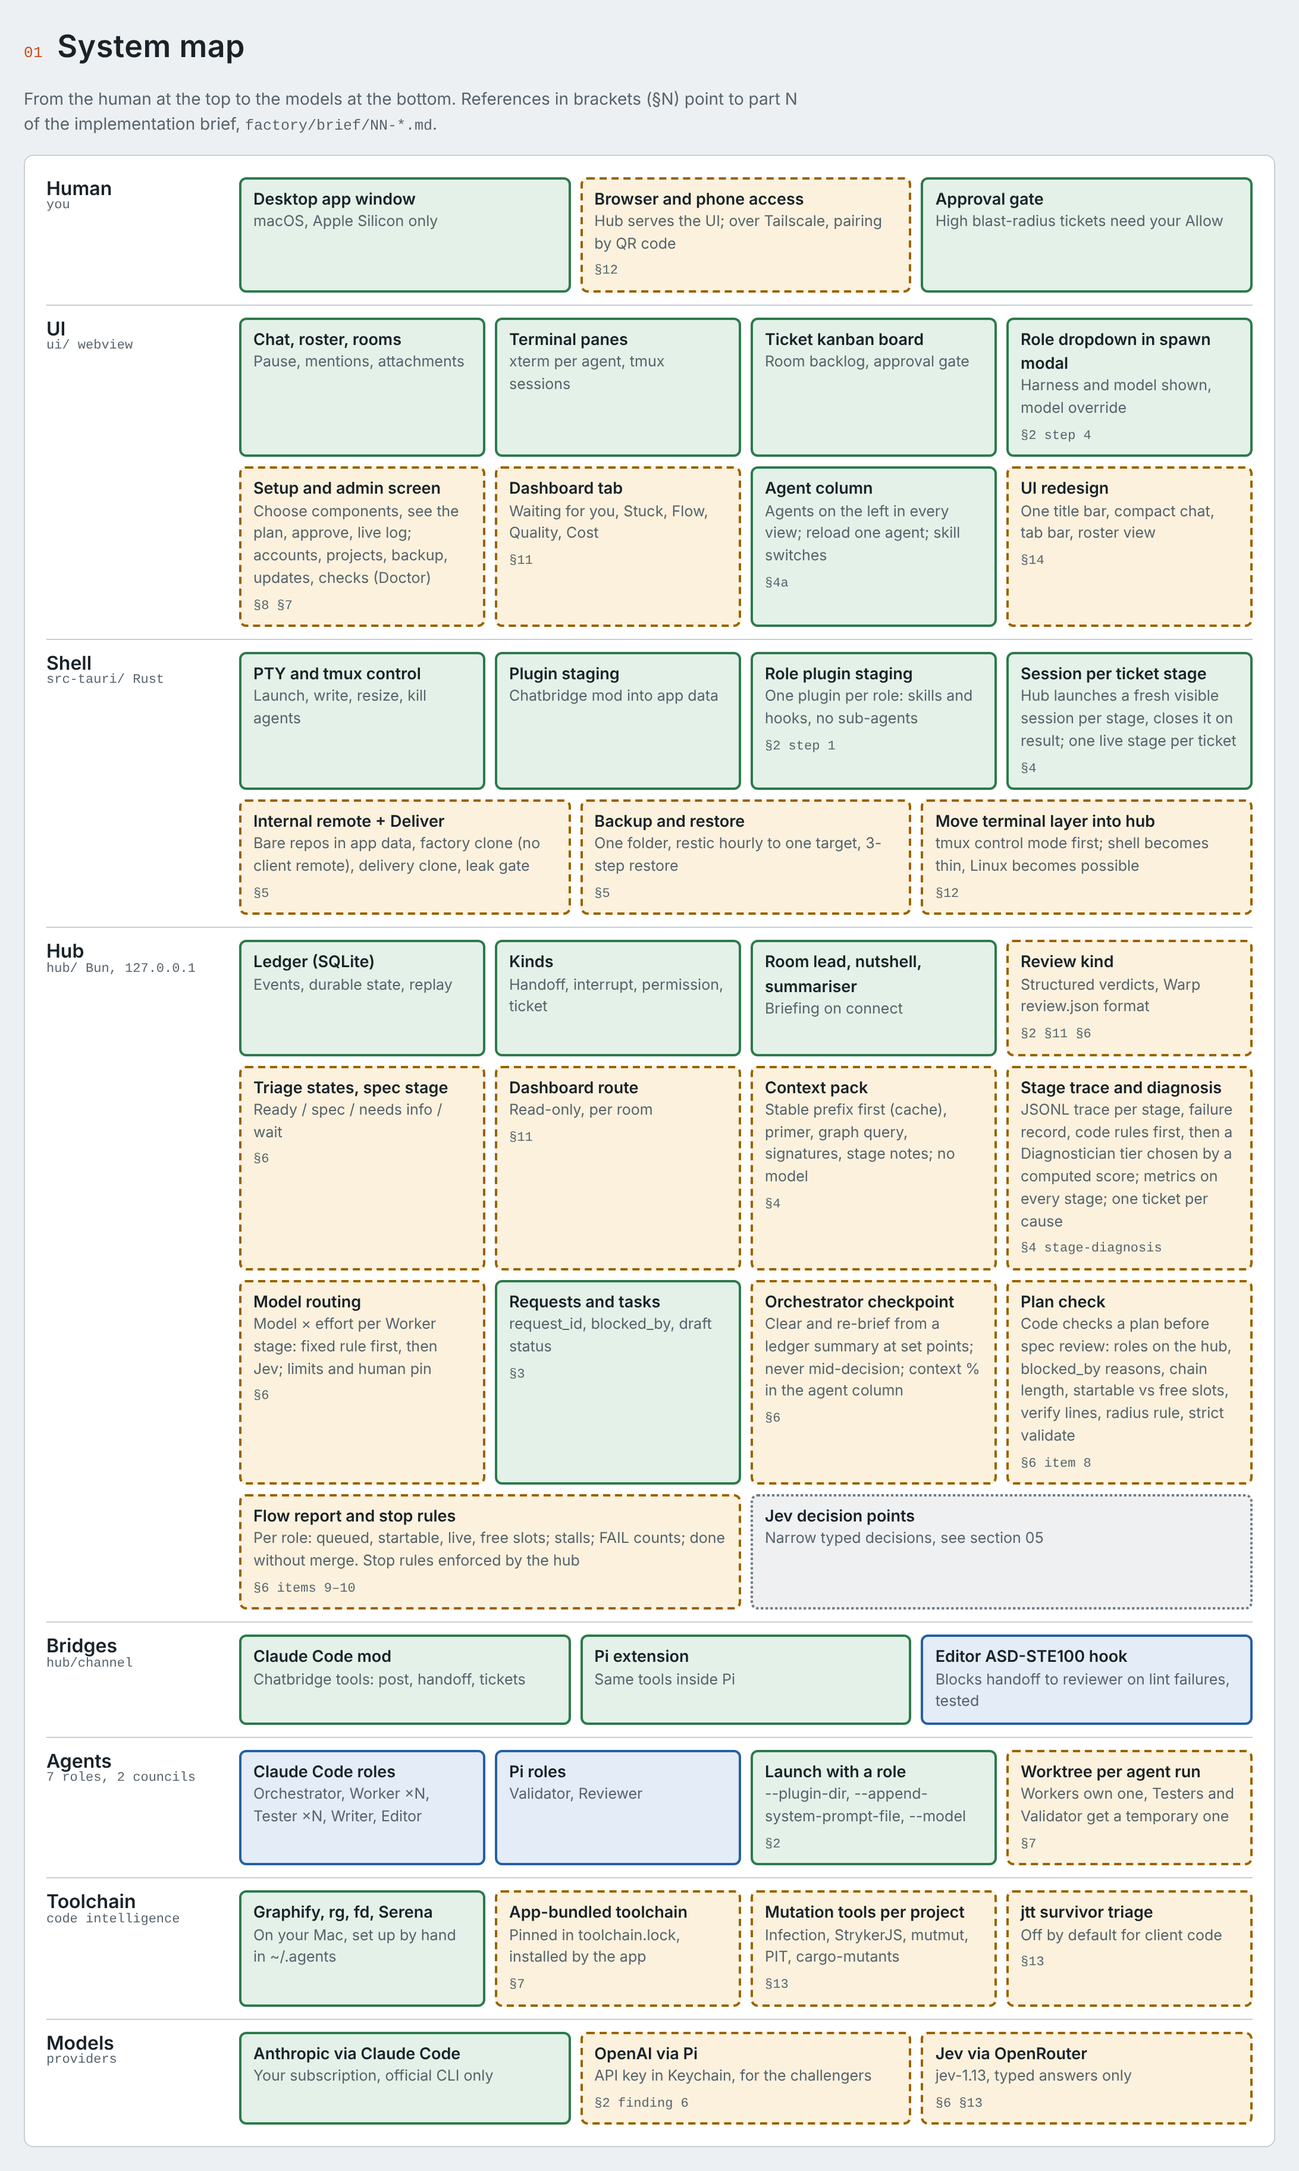
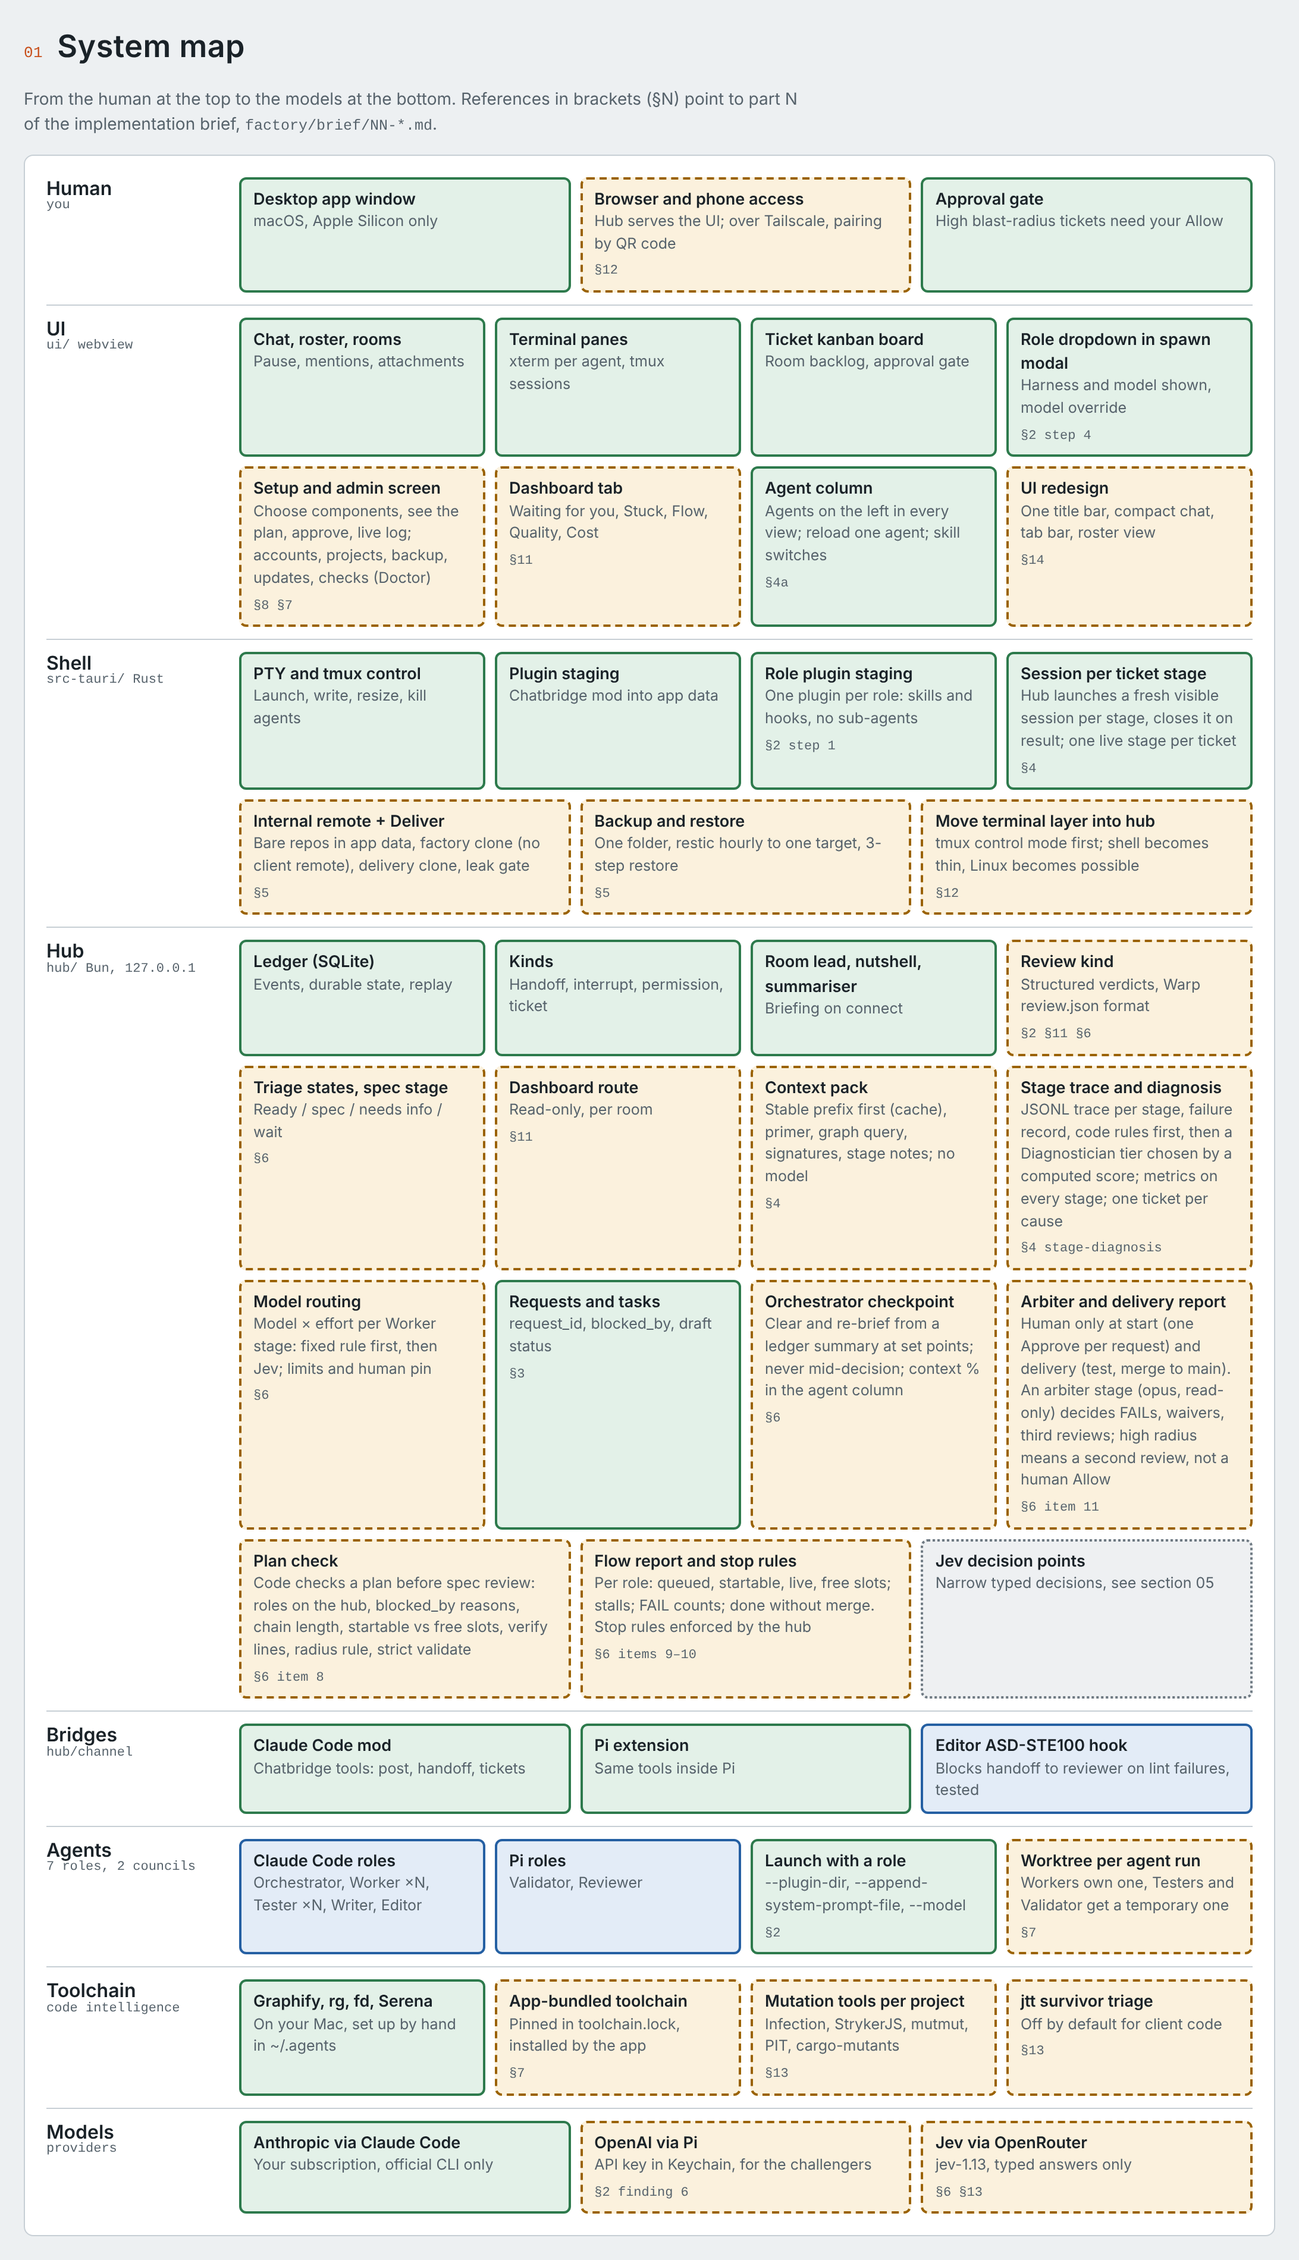
docs: human touchpoints only at start and delivery (Part 6 item 11, arbiter, interim rule); map

diff --git a/docs/factory-map.html b/docs/factory-map.html
@@ -203,6 +203,7 @@ footer{color:var(--muted);font-size:12.5px;display:grid;gap:4px}
         <div class="n planned"><span class="t">Model routing</span><span class="d">Model × effort per Worker stage: fixed rule first, then Jev; limits and human pin</span><span class="ref">§6</span></div>
         <div class="n built"><span class="t">Requests and tasks</span><span class="d">request_id, blocked_by, draft status</span><span class="ref">§3</span></div>
         <div class="n planned"><span class="t">Orchestrator checkpoint</span><span class="d">Clear and re-brief from a ledger summary at set points; never mid-decision; context % in the agent column</span><span class="ref">§6</span></div>
+        <div class="n planned"><span class="t">Arbiter and delivery report</span><span class="d">Human only at start (one Approve per request) and delivery (test, merge to main). An arbiter stage (opus, read-only) decides FAILs, waivers, third reviews; high radius means a second review, not a human Allow</span><span class="ref">§6 item 11</span></div>
         <div class="n planned"><span class="t">Plan check</span><span class="d">Code checks a plan before spec review: roles on the hub, blocked_by reasons, chain length, startable vs free slots, verify lines, radius rule, strict validate</span><span class="ref">§6 item 8</span></div>
         <div class="n planned"><span class="t">Flow report and stop rules</span><span class="d">Per role: queued, startable, live, free slots; stalls; FAIL counts; done without merge. Stop rules enforced by the hub</span><span class="ref">§6 items 9–10</span></div>
         <div class="n idea"><span class="t">Jev decision points</span><span class="d">Narrow typed decisions, see section 05</span></div>
@@ -468,7 +469,7 @@ footer{color:var(--muted);font-size:12.5px;display:grid;gap:4px}
     <div class="n built"><span class="step">3</span><span class="t">Ticket grouping</span><span class="d">done: request_id, blocked_by, draft status</span><span class="ref">§3</span></div>
     <div class="n planned"><span class="step">4</span><span class="t">Session per ticket stage</span><span class="d">stage sessions and spec review done (archived 27 Oct); open: context pack (in work), stage diagnosis (proposed)</span><span class="ref">§4</span></div>
     <div class="n built"><span class="step">4a</span><span class="t">Agent column</span><span class="d">done: built to test Part 4; reload one agent, skill switches</span><span class="ref">§4a</span></div>
-    <div class="n planned"><span class="step">6</span><span class="t">Checkpoint, guards, routing, Warp patterns</span><span class="d">next: Orchestrator checkpoint; then plan check, flow report, stop rules in the hub; then model × effort per Worker; triage, spec stage, review.json</span><span class="ref">§6</span></div>
+    <div class="n planned"><span class="step">6</span><span class="t">Touchpoints, checkpoint, guards, routing</span><span class="d">next: human only at start and delivery (arbiter, delivery report) with the Orchestrator checkpoint; then plan check, flow report, stop rules; then model × effort; triage, spec stage, review.json</span><span class="ref">§6</span></div>
     <div class="n planned"><span class="step">12</span><span class="t">Hub-first, browser, Linux</span><span class="d">after Part 6: hub serves the UI, terminal layer into the hub, browser access and pairing, Linux</span><span class="ref">§12</span></div>
     <div class="n planned"><span class="step">5</span><span class="t">Delivery and backup</span><span class="d">after Part 12: internal remote, Deliver step, leak gate, hourly backup</span><span class="ref">§5</span></div>
     <div class="n planned"><span class="step">7</span><span class="t">Toolchain</span><span class="d">bundled tools, worktrees, Serena limits</span><span class="ref">§7</span></div>

diff --git a/factory/brief/06-warp-patterns.md b/factory/brief/06-warp-patterns.md
@@ -1,6 +1,6 @@
-# Part 6: patterns from the Warp cloud factory, model routing, the Orchestrator checkpoint and process guards
+# Part 6: patterns from the Warp cloud factory, model routing, the Orchestrator checkpoint, process guards and human touchpoints
 
-Status: planned. Build order inside this part (decision 2026-10-27): item 7 (Orchestrator checkpoint), then items 8 to 10 (process guards), then item 6 (model routing), then items 1 to 5. Part 12 comes directly after this part.
+Status: planned. Build order inside this part (decision 2026-10-27): item 11 (human touchpoints) and item 7 (Orchestrator checkpoint) first, then items 8 to 10 (process guards), then item 6 (model routing), then items 1 to 5. Part 12 comes directly after this part.
 
 ## Findings from real use (2026-10-27)
 
@@ -16,6 +16,7 @@ The response, in this part:
 - Item 8 checks each plan with code before the spec review.
 - Item 9 gives a flow report from the hub.
 - Item 10 moves the stop rules into the hub.
+- Item 11 limits the human to two points: the start of a request and the delivery. The factory decides everything between them and records each decision.
 
 Rule for all items: a fact about the work ("done", "merged", "archived", "blocked") comes from the hub or from git. A report that states such a fact without a commit hash or a hub record does not count.
 
@@ -300,21 +301,91 @@ Status: decision 2026-10-27 (human). Several of these are open tickets already. 
 
 Rule for new role-file rules: when a rule protects the flow (a limit, a stop, an order), add the check in code or add a row to this table with the reason why code cannot check it.
 
+### 11. Human touchpoints: start and delivery only
+
+Status: decision 2026-10-27 (human). Build it first in this part, with item 7. The interim rule below applies now.
+
+#### Goal
+
+The human takes part at two points only:
+1. **Start.** The human defines the features of a request and approves its plan once.
+2. **Delivery.** The human tests the result on staging and merges staging into main, or opens a fix request.
+
+Between these two points the factory decides alone. It records each decision, and the delivery report shows them. On 2026-10-27 the human had to act many times per ticket (queue, Approve, Allow, radius, third reviews, decisions after FAILs). That made the factory slower than doing the work by hand.
+
+#### Today's human actions and their replacement
+
+| Today | Replacement |
+|---|---|
+| Approve a request with a high-radius ticket, and again after each edit of a ticket | One Approve for each request, at the start. An edit inside the approved scope needs no new Approve. A scope change (a new or removed ticket, a removed criterion) needs one. |
+| Allow on each high-radius ticket before the merge | High radius means stricter checks, not a human gate: the Tester runs the full suite, and a second review comes from a different model (OpenAI on Pi when available, else opus). The merge message names both PASSes. The delivery report lists every high-radius change. Main stays protected: only the human merges staging into main. |
+| The human sets or changes the radius | Code sets the radius from the radius rule (item 8). The Orchestrator can raise it. A radius below the rule needs the arbiter. The start Approve shows the radius of each ticket. |
+| Decisions after two FAILs, waivers, contradictory criteria, a third review | An arbiter stage decides (see below). |
+| The install time | The Orchestrator installs in a clean window, with the backup and the full checks (already the rule). |
+
+#### The arbiter
+
+- A stage with role `arbiter`: Claude, opus with effort high, read-only, a new session each time.
+- First message: the ticket, its criteria and notes, all findings, the FAIL history, earlier rulings, `factory/orchestrator/unblocking.md` and the decision tree of `factory/validator/validator.md`.
+- Result (schema-checked): one option from a fixed list (rework with a named scope, waiver with its text, third review with its scope, follow-up ticket, cancel, human), the reasons, and the rule it applied.
+- Code applies the result: it writes the ruling as a ticket note, sends the rework, starts the review or makes the draft ticket.
+- Limits: one arbiter for each ticket and FAIL count. The arbiter cannot change the scope or the features. It cannot rule on implementation details without a code reference.
+
+#### When the human is asked
+
+Only when:
+- a decision changes a feature or the scope that the human defined;
+- an action cannot be undone (data loss, a delete outside the factory, an external effect, secrets);
+- the arbiter returns `human`;
+- a security finding has no fix in scope.
+
+Each such question uses the escalation format of `unblocking.md` and comes as one "Needs you" line.
+
+#### Delivery report
+
+When all tickets of a request are done, code builds the report from the ledger and git:
+- the tickets and their merge commits;
+- the arbiter rulings, the waivers and the known limits;
+- the high-radius changes with their two PASSes;
+- the test counts on staging;
+- how to test the feature by hand.
+
+The human tests and merges staging into main, or opens a fix request. Each ruling that the human overrules is recorded, and it is a measure of the arbiter.
+
+#### Interim rule (effective 2026-10-27, until this item is built)
+
+- The Orchestrator decides the options it would bring to the human, by its own recommendation, when the decision does not change the scope and can be undone. It writes each as a ticket note "Ruling (Orchestrator, interim)" with the reason, and lists them in one summary at the end of the day.
+- Rulings on implementation details stay forbidden (`unblocking.md`, step 2).
+- The hub still asks the human for the Approve and the Allow of high-radius tickets and for a third spec review. Until item 11 is built, apply the radius rule strictly, so that few tickets are high.
+
+#### Tests
+
+1. A request approved at the start: an edit inside its scope queues without a new Approve. A new ticket in the request needs one.
+2. A high-radius ticket with two PASSes merges without a human Allow. The merge message names both PASSes.
+3. After a second FAIL, an arbiter stage starts. Its result is a ticket note, and code applies it. The human gets no "Needs you" line.
+4. An arbiter result that changes the scope is refused, and the decision goes to the human.
+5. The delivery report lists every ruling, waiver and high-radius change of the request.
+
+#### Open questions
+
+1. The second model: OpenAI on Pi is not set up yet (Part 2, finding 6). Until then, the second review is opus on Claude, in a new session.
+2. Does an arbiter replace the human well enough? Measure it with the overrules in the delivery reports.
+
 ## Ideas for later
 
-### 11. Learning from the human's corrections
+### 12. Learning from the human's corrections
 
 Skill: `.agents/skills/improve-review-pr/SKILL.md`. A daily job reads how humans reacted to automated review comments. It opens a change to the review skill when it finds knowledge that the reviewer must keep.
 
 For the factory: when the human overrules a Validator or Reviewer verdict, record it with the reason. A scheduled job proposes changes to the role file or the skills. The human approves each change.
 
-### 12. Video evidence of UI behaviour
+### 13. Video evidence of UI behaviour
 
 Skill: `.agents/skills/verify-behavior/SKILL.md`. It checks each user story in a separate run, and records video and screenshots. It uses the Oz platform.
 
 For the factory: the Tester records Playwright video for UI tickets and attaches it to the ticket. One check for each user story in the spec, in parallel. This is useful for Drupal UI changes and for accessibility checks.
 
-### 13. Tests for skills
+### 14. Tests for skills
 
 File: `.agents/skills/triage/evals/evals.json`. Each entry has a prompt and the expected behaviour. Skill descriptions decide when skills load (Part 2, finding 4), so test the important skills with prompts like these. The `skill-creator` skill can run such tests.
 

diff --git a/factory/brief/00-index.md b/factory/brief/00-index.md
@@ -18,7 +18,7 @@ The brief has sixteen parts. The numbers follow the build order (decision 2026-1
 4. [04-sessions.md](04-sessions.md): Visible sessions: no sub-agents, and one new session for each ticket stage. Stage sessions and spec review are done (archived 2026-10-27). Open: the context pack (in work) and stage diagnosis (proposed, `openspec/changes/stage-diagnosis`).
 4a. [04a-agent-column.md](04a-agent-column.md): Agent column (done). The agents move to a left column in every view, with Reload for one agent and a switch for each skill. The human asked for it on 2026-10-24, so that Part 4 can be tested. Design note for the skill switches: [04a-c6-design.md](04a-c6-design.md).
 5. [05-delivery-backup.md](05-delivery-backup.md): Internal remote, clean delivery to the client, backups and recovery. You can set up the hourly backup at once.
-6. [06-warp-patterns.md](06-warp-patterns.md): Patterns from the Warp cloud factory: triage states, a spec stage, the `review.json` format, the trust boundary, follow-up reviews. Also model routing for Workers (item 6), the Orchestrator checkpoint (item 7, build it first), and process guards from real use on 2026-10-27: a plan check before spec review (item 8), a flow report (item 9) and the stop rules in the hub (item 10). Order inside the part: 7, 8, 9, 10, 6, then 1 to 5. Build Part 6 before Part 5 (decision 2026-10-26).
+6. [06-warp-patterns.md](06-warp-patterns.md): Patterns from the Warp cloud factory: triage states, a spec stage, the `review.json` format, the trust boundary, follow-up reviews. Also model routing for Workers (item 6), the Orchestrator checkpoint (item 7, build it first), and process guards from real use on 2026-10-27: a plan check before spec review (item 8), a flow report (item 9) and the stop rules in the hub (item 10). Item 11 (decision 2026-10-27) limits the human to the start of a request and the delivery; an arbiter stage decides between them. Order inside the part: 11 and 7, then 8, 9, 10, 6, then 1 to 5. Build Part 6 before Part 5 (decision 2026-10-26).
 7. [07-toolchain.md](07-toolchain.md): Toolchain: the app installs and gives each agent Graphify, ripgrep, fd and Serena.
 8. [08-setup-admin.md](08-setup-admin.md): Setup and admin screen: install, sign in, add projects, check and update.
 9. [09-a11y-council.md](09-a11y-council.md): Accessibility and usability council. It builds the council form. It works on live pages, code, documents and Figma designs.

diff --git a/factory/orchestrator/orchestrator.md b/factory/orchestrator/orchestrator.md
@@ -42,7 +42,7 @@ The validator reviews your plan for each request before any work starts (spec re
      - `claimed`, `in_progress` or `in_review`: you cannot change its `blocked_by`. Ask the human to change it.
      - `done` or `cancelled`: do not change it.
 9. Triage every unassigned ticket in your Briefing.
-10. Watch for stalls: a ticket without movement, a pending handoff, two FAIL or CHANGES loops on one ticket, or a validator-worker dispute. Decide, or escalate to the human with the options. When work stops, follow `factory/orchestrator/unblocking.md`. A memory note never overrides this file.
+10. Watch for stalls: a ticket without movement, a pending handoff, two FAIL or CHANGES loops on one ticket, or a validator-worker dispute. Decide. Escalate to the human only for a scope or feature change, an action that cannot be undone, or a security finding without a fix in scope (Part 6, item 11, interim rule). Record each decision as a ticket note. When work stops, follow `factory/orchestrator/unblocking.md`. A memory note never overrides this file.
 11. Keep the Nutshell current. Propose edits with a `[nutshell]` handoff to the human.
 12. When all tickets of a request reach `done`, post a short summary to the human: tickets, results, open risks.
 

diff --git a/factory/orchestrator/unblocking.md b/factory/orchestrator/unblocking.md
@@ -44,7 +44,11 @@ After a merge conflict on a high-radius ticket that the human has allowed, the A
 - An OpenSpec change is archived only if it is in `openspec/changes/archive/`.
 - A cause is proven only if a test or a trace reproduces it.
 
-### 4. Escalate in one message
+### 4a. Decide (interim rule, human, 2026-10-27)
+
+When the decision does not change the scope or a feature and can be undone, do not escalate. Choose your recommended option, write it as a ticket note "Ruling (Orchestrator, interim): <option>, because <reason>", and act. List all rulings of the day in one summary to the human. This holds until the arbiter of Part 6, item 11 is built. If the hub needs the human for the next step (Approve, Allow, third spec review), ask for that action only, in one line, with the command.
+
+### 4. Escalate in one message (only for scope, features, actions that cannot be undone, security)
 
 The message to the human has these parts:
 1. **Block:** one sentence. What stops, since when.
